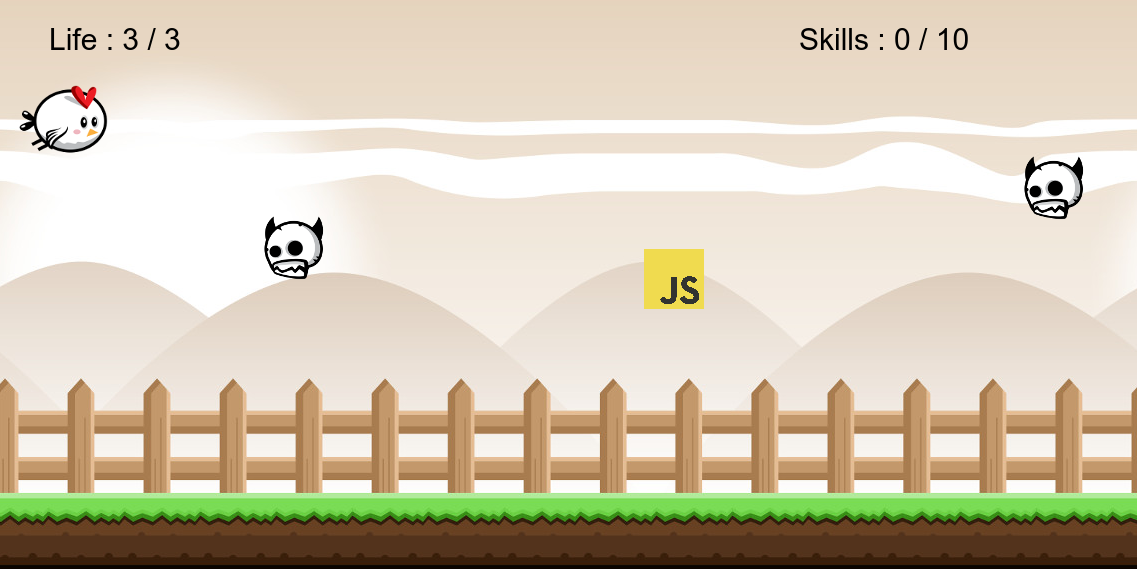
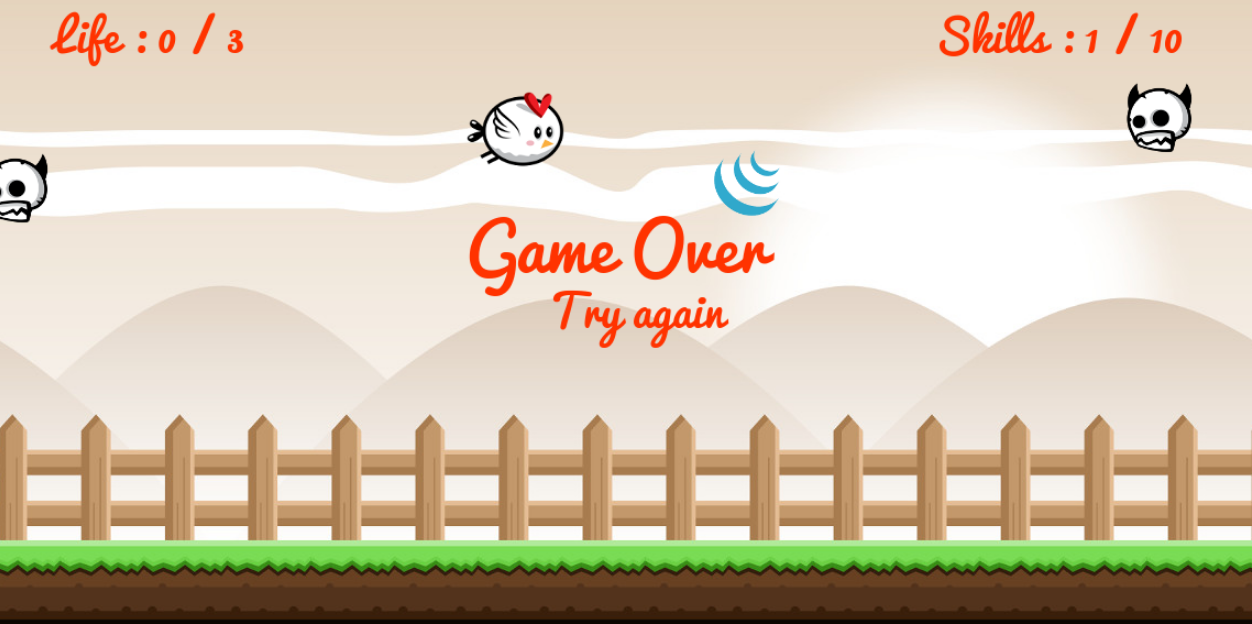
update game img in smaller resolutions

diff --git a/js/main.js b/js/main.js
@@ -163,7 +163,7 @@
             background.image = new Image();
             background.image.onload = function() {
                 loopBackground(0)
-            context.font = '40px Pacifico';
+            context.font = '40px Helvetica';
             context.fillStyle = '#FF3300';
             context.fillText('Click here or Play button to start', 290, 275);
             };
